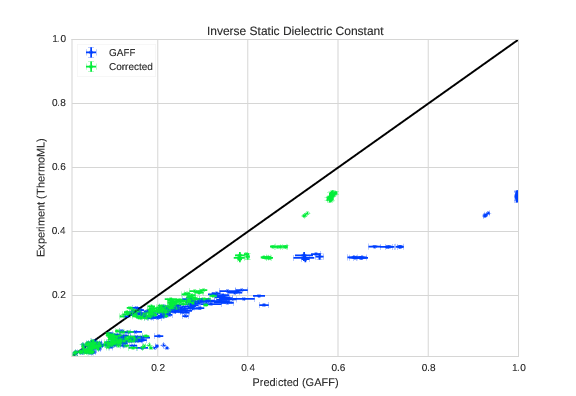
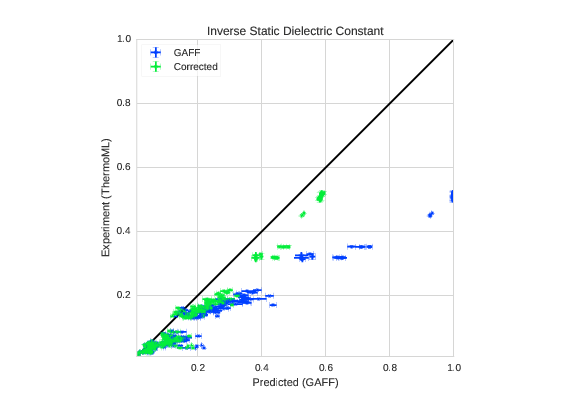
Fix square figures

diff --git a/index.html b/index.html
@@ -318,7 +318,7 @@ van der Spoel, JCTC, 2011 and van der Spoel, Bioinformatics, 2012
     </hgroup>
     <article ><ul>
 <li>Small molecule forcefields need help</li>
-<li>ThermoML is a NIST-funded, curated, and growing set of physicochemical data</li>
+<li>ThermoML is a NIST-funded, machine-readable, and growing set of physicochemical data</li>
 <li>We built a semi-automated benchmark of densities and dielectrics in ThermoML</li>
 <li>Empirical polarizability model improves comparisons to measured dielectric constants</li>
 <li>Can we validate forcefields in real-time on all publication quality measurements?</li>

diff --git a/slides.md b/slides.md
@@ -182,7 +182,7 @@ title: Empirical polarizability reduces bias
 title: Where do we go from here?
 
 - Small molecule forcefields need help
-- ThermoML is a NIST-funded, curated, and growing set of physicochemical data
+- ThermoML is a NIST-funded, machine-readable, and growing set of physicochemical data
 - We built a semi-automated benchmark of densities and dielectrics in ThermoML
 - Empirical polarizability model improves comparisons to measured dielectric constants
 - Can we validate forcefields in real-time on all publication quality measurements?
